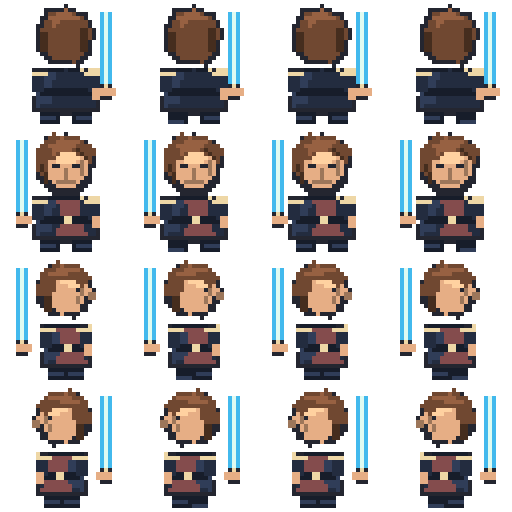
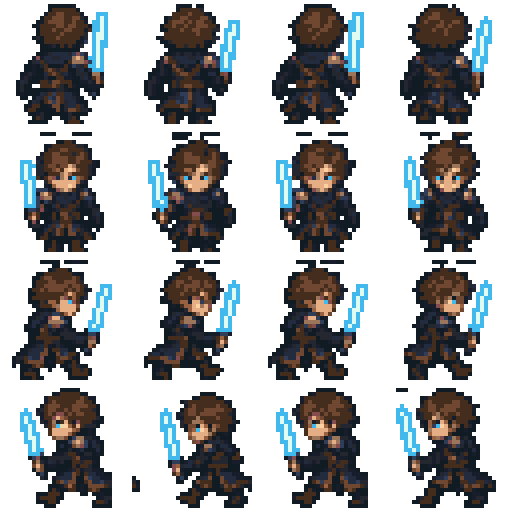
fix: rebuild Anakin and Obi-Wan field sprites

diff --git a/desktop/tools/draw_jedi_v2.py b/desktop/tools/draw_jedi_v2.py
@@ -12,6 +12,7 @@ from draw_jedi import ROSTER, slug, shade, encode
 from jedi_approved import plo, yoda, Sprite
 
 ROOT=Path(__file__).resolve().parents[1]/'assets'/'jedi'
+PLAYER_SOURCE=ROOT/'anakin-obiwan-overworld-source.png'
 
 
 def colors(c):
@@ -345,6 +346,72 @@ def overworld(c,direction,phase):
     return im
 
 
+def production_player_overworld(c,direction,phase):
+    """Import the approved high-detail player sheet into the native 32 px cell.
+
+    The source is an enlarged review sheet with Anakin in columns 0-3 and
+    Obi-Wan in columns 4-7.  Every cell is normalized independently so the
+    feet stay planted while hair, robes and the saber keep their silhouette.
+    Colors are mapped to the character's shared 16-color ROM palette, which
+    keeps battle portraits and field frames compatible with one texture.
+    """
+    if c[0] not in ('Anakin Skywalker','Obi-Wan Kenobi'):
+        return overworld(c,direction,phase)
+    source=Image.open(PLAYER_SOURCE).convert('RGBA')
+    cell_w,cell_h=source.width//8,source.height//4
+    character_col=0 if c[0]=='Anakin Skywalker' else 4
+    # The game's four-step walk bank expects the two standing beats to share
+    # one frame (0, left, 0, right), matching the original animation cadence.
+    source_phase=0 if phase==2 else phase
+    left=(character_col+source_phase)*cell_w
+    top=direction*cell_h
+    cell=source.crop((left,top,left+cell_w,top+cell_h))
+    alpha=cell.getchannel('A')
+    bbox=alpha.point(lambda value:255 if value>=48 else 0).getbbox()
+    if not bbox:
+        raise ValueError(f'Empty player frame: {c[0]} direction={direction} phase={phase}')
+    cell=cell.crop(bbox)
+    scale=min(30/cell.width,30/cell.height)
+    size=(max(1,round(cell.width*scale)),max(1,round(cell.height*scale)))
+    cell=cell.resize(size,Image.Resampling.LANCZOS)
+
+    pal=palette_of(battle(c))
+    out=Image.new('P',(32,32));set_colors(out,pal)
+    rgba=cell.load();pixels=[]
+    for y in range(cell.height):
+        for x in range(cell.width):
+            red,green,blue,opacity=rgba[x,y]
+            if opacity<48:
+                pixels.append(0)
+                continue
+            # Blue and white saber pixels use the fixed blade indices expected
+            # by the ROM patcher. Costume pixels use perceptual nearest color.
+            if blue>red*1.35 and blue>green*1.05 and blue>115:
+                pixels.append(14 if red+green+blue>610 else 13)
+                continue
+            pixels.append(min(range(1,16),key=lambda index:
+                3*(red-pal[index][0])**2+4*(green-pal[index][1])**2+2*(blue-pal[index][2])**2))
+    mapped=Image.new('P',cell.size);set_colors(mapped,pal);mapped.putdata(pixels)
+    out.paste(mapped,((32-cell.width)//2,31-cell.height))
+    # Image-generation review sheets can contain a few isolated sparkle pixels.
+    # Strip only tiny disconnected islands; the body and saber remain intact.
+    values=list(out.getdata());seen=set()
+    for origin,value in enumerate(values):
+        if value==0 or origin in seen:continue
+        component=[];pending=[origin];seen.add(origin)
+        while pending:
+            current=pending.pop();component.append(current)
+            x,y=current%32,current//32
+            for nx,ny in ((x-1,y),(x+1,y),(x,y-1),(x,y+1)):
+                neighbor=ny*32+nx
+                if 0<=nx<32 and 0<=ny<32 and neighbor not in seen and values[neighbor]!=0:
+                    seen.add(neighbor);pending.append(neighbor)
+        if len(component)<3:
+            for index in component:values[index]=0
+    out.putdata(values)
+    return out
+
+
 def font(size):
     for path in ('/System/Library/Fonts/Supplemental/Arial.ttf','/usr/share/fonts/truetype/dejavu/DejaVuSans.ttf'):
         if Path(path).exists():return ImageFont.truetype(path,size)
@@ -357,8 +424,8 @@ def main():
         for c in ROSTER:
             if c[0] not in ('Anakin Skywalker','Obi-Wan Kenobi'):continue
             name=slug(c[0]);path=ROOT/f'{name}.json';data=json.loads(path.read_text())
-            frames=[overworld(c,r,k) for r in range(4) for k in range(4)]
-            data['artRevision']=3;data['frames']=[encode(frame) for frame in frames]
+            frames=[production_player_overworld(c,r,k) for r in range(4) for k in range(4)]
+            data['artRevision']=4;data['frames']=[encode(frame) for frame in frames]
             path.write_text(json.dumps(data,separators=(',',':'))+'\n')
             sheet=Image.new('RGBA',(128,128))
             for i,frame in enumerate(frames):sheet.paste(frame.convert('RGBA'),((i%4)*32,(i//4)*32))
@@ -369,13 +436,14 @@ def main():
     d.text((25,20),'SOUL LINK · CLONE WARS · PIXELSTIL 02',font=font(25),fill='#ecd7ab')
     for index,c in enumerate(ROSTER):
         front=[battle(c,False,p) for p in range(2)];back=[battle(c,True,p) for p in range(2)]
-        frames=[overworld(c,r,k) for r in range(4) for k in range(4)]
+        frames=[production_player_overworld(c,r,k) if c[0] in ('Anakin Skywalker','Obi-Wan Kenobi') else overworld(c,r,k)
+                for r in range(4) for k in range(4)]
         pal=palette_of(front[0]);name=slug(c[0])
         # All images share one palette. Transparent border protects picture cipher.
         for im in front+back+frames:
             assert im.getpixel((im.width-1,im.height-1))==0
             assert len(im.getcolors())<=16
-        data={'format':2,'artRevision':3 if c[0] in ('Anakin Skywalker','Obi-Wan Kenobi') else 2,'name':c[0],'size':32,
+        data={'format':2,'artRevision':4 if c[0] in ('Anakin Skywalker','Obi-Wan Kenobi') else 2,'name':c[0],'size':32,
               'bladeIndices':[14,15] if c[5]=='yoda' else [13,14],
               'palette':[[round(v*31/255) for v in rgb] for rgb in pal],
               'frames':[encode(f) for f in frames],'front':[encode(f) for f in front],'back':[encode(f) for f in back]}

diff --git a/desktop/run.py b/desktop/run.py
@@ -21,7 +21,7 @@ def self_test():
     classpath()
     emulator=install_root()/'Emulator'/('melonDS.app' if platform.system()=='Darwin' else 'melonDS.exe')
     executable=find_executable(emulator)
-    assert (install_root()/'Emulator'/'focus-version.txt').read_text().strip()=='focus-0.15.0'
+    assert (install_root()/'Emulator'/'focus-version.txt').read_text().strip()=='focus-0.15.1'
     native=subprocess.run([str(executable),'--help'],capture_output=True,text=True,timeout=20)
     if native.returncode:
         raise RuntimeError(f'Emulator self-test failed ({native.returncode}): {native.stdout}\n{native.stderr}')

diff --git a/desktop/focus/build_focus.py b/desktop/focus/build_focus.py
@@ -15,7 +15,7 @@ import urllib.request
 import zipfile
 from .apply_focus import apply
 
-VERSION='focus-0.15.0'
+VERSION='focus-0.15.1'
 
 
 def run(args, **kwargs):

diff --git a/desktop/soullink/__init__.py b/desktop/soullink/__init__.py
@@ -1,3 +1,3 @@
 """SoulLink desktop companion."""
 
-__version__ = "0.15.0"
+__version__ = "0.15.1"

diff --git a/README.md b/README.md
@@ -2,9 +2,10 @@
 
 Desktop-Launcher für deutsche Pokémon SoulSilver-ROMs mit lokalem Randomizer, überprüfbaren Start-Spielständen und gemeinsamem Railway-Tracker.
 
-- **[Aktuelle stabile Version: 0.15.0](https://github.com/JohnLegendstyle/SoulLink/releases/tag/v0.15.0)**
-- [Windows 64 Bit herunterladen](https://github.com/JohnLegendstyle/SoulLink/releases/download/v0.15.0/SoulLink-0.15.0-Windows-x64.zip)
+- **[Aktuelle stabile Version: 0.15.1](https://github.com/JohnLegendstyle/SoulLink/releases/tag/v0.15.1)**
+- [Windows 64 Bit herunterladen](https://github.com/JohnLegendstyle/SoulLink/releases/download/v0.15.1/SoulLink-0.15.1-Windows-x64.zip)
 - [Versionsübersicht und Änderungsverlauf](CHANGELOG.md)
+- [Update 0.15.1: neue Anakin-/Obi-Wan-Lauffiguren](releases/v0.15.1.md) – gleichmäßige Körperproportionen, erkennbare Clone-Wars-Kleidung, Haare/Bart und Lichtschwerter in allen Laufrichtungen.
 - [Update 0.15.0: Windows-Kampfhilfe, Starterwahl und Direkt-Update](releases/v0.15.0.md) – Live-Schwächen und Attackenwirkung im Emulator, drei Starter im Launcher, neue kleine Anakin-/Obi-Wan-Figuren und Update im bisherigen App-Ordner.
 - [Update 0.14.4: Live-Team-Prüfung repariert](releases/v0.14.4.md) – alte/neue Trainernamen und vorübergehend unvollständige Boxplätze blockieren nicht mehr das gesamte Live-Team.
 - [Update 0.14.0: Live-Karte und Typenhilfe](releases/v0.14.0.md) – Anakin/Obi-Wan live auf der Karte, Typen/Schwächen/Stärken am Team und drei lokale Website-Ansichten.
@@ -16,11 +17,11 @@ Desktop-Launcher für deutsche Pokémon SoulSilver-ROMs mit lokalem Randomizer, 
 - [Spielstart und Bedienung](SPIELSTART.md)
 - [Gemeinsamer Tracker](https://soullink-web-production.up.railway.app)
 
-Der Nutzer liefert seine eigene ROM. Dieses Repository und die Releases enthalten keine Nintendo-ROMs oder BIOS-Dumps. **Beim Update die bestehende Runde öffnen; keine Startspielstände über euren Fortschritt kopieren.** Der Downloadkanal `spielabend` wird fortlaufend ersetzt; nummerierte Releases sind die verlässliche Versionsablage. Version 0.15.0 wird zunächst nur für Windows x64 ausgeliefert; die letzte macOS-Version bleibt 0.14.4.
+Der Nutzer liefert seine eigene ROM. Dieses Repository und die Releases enthalten keine Nintendo-ROMs oder BIOS-Dumps. **Beim Update die bestehende Runde öffnen; keine Startspielstände über euren Fortschritt kopieren.** Der Downloadkanal `spielabend` wird fortlaufend ersetzt; nummerierte Releases sind die verlässliche Versionsablage. Version 0.15.1 wird zunächst nur für Windows x64 ausgeliefert; die letzte macOS-Version bleibt 0.14.4.
 
 ## Desktop
 
-`desktop/` enthält den dunklen Launcher für Windows/macOS, den Randomizer-Adapter und den HGSS-Save-Reader. Drei eindeutige Starter, mindestens ein legendäres/mysteriöses Pokémon; optional wilde Begegnungen und Trainerteams. Getrennte männliche Trainer Anakin (John) und Obi-Wan (Eddie) starten direkt vor der Auswahl. Jede Runde hat ein neues Verzeichnis. Die letzte Runde kann wieder geöffnet werden. melonDS bleibt der Spielkern und öffnet ein separates Fenster. Version 0.8 enthält ein lokal handgezeichnetes Clone-Wars-Grafikpaket, ohne Bildgenerator/API; Umfang und Grenzen siehe `desktop/assets/jedi/README.md`.
+`desktop/` enthält den dunklen Launcher für Windows/macOS, den Randomizer-Adapter und den HGSS-Save-Reader. Drei eindeutige Starter, mindestens ein legendäres/mysteriöses Pokémon; optional wilde Begegnungen und Trainerteams. Getrennte männliche Trainer Anakin (John) und Obi-Wan (Eddie) starten direkt vor der Auswahl. Jede Runde hat ein neues Verzeichnis. Die letzte Runde kann wieder geöffnet werden. melonDS bleibt der Spielkern und öffnet ein separates Fenster. Das Clone-Wars-Grafikpaket liegt vollständig lokal im Release; es benötigt beim Spielen weder einen Bilddienst noch einen API-Schlüssel. Umfang und Grenzen siehe `desktop/assets/jedi/README.md`.
 
 Python 3.12 mit Tk, Java 21 und ein JDK mit javac/jlink werden zum Bauen benötigt:
 

diff --git a/SPIELSTART.md b/SPIELSTART.md
@@ -60,7 +60,7 @@ Jede Erstellung erzeugt zwei getrennte Spielerordner. Ihr könnt unabhängig auf
 
 ## Anakin und Obi-Wan (ab 0.8.0)
 
-Neue Runden enthalten Anakin für John und Obi-Wan für Eddie, mit blauem Lichtschwert. Die Namen im Spiel und Overlay sind **Anakin** und **Obi-Wan**. Alte Ordner-/Dateinamen und interne Spielerkennungen Optimus/Bee bleiben aus Kompatibilitätsgründen erhalten. 45 handgezeichnete Jedi-Designs ersetzen unterstützte Lauf-/Rennfiguren und alle 129 Trainer-Kampfklassen sowie die Kampfrückansichten. Die Figuren sind Pixelgrafiken, keine importierten 3D-Modelle. Trainerpass und Spezialaktionen wie Fahrrad, Surfen und Angeln verwenden vorerst Originalgrafiken. Gegnernamen und Dialoge bleiben unverändert; einige Zivilisten verwenden dieselben Grafikvorlagen wie Trainer.
+Neue Runden enthalten Anakin für John und Obi-Wan für Eddie, mit blauem Lichtschwert. Die Namen im Spiel und Overlay sind **Anakin** und **Obi-Wan**. Alte Ordner-/Dateinamen und interne Spielerkennungen Optimus/Bee bleiben aus Kompatibilitätsgründen erhalten. 45 lokale Jedi-Pixeldesigns ersetzen unterstützte Lauf-/Rennfiguren und alle 129 Trainer-Kampfklassen sowie die Kampfrückansichten. Die Figuren sind Pixelgrafiken, keine importierten 3D-Modelle. Trainerpass und Spezialaktionen wie Fahrrad, Surfen und Angeln verwenden vorerst Originalgrafiken. Gegnernamen und Dialoge bleiben unverändert; einige Zivilisten verwenden dieselben Grafikvorlagen wie Trainer.
 
 Für eine bestehende Runde: Spiel speichern, Cloud-Abgleich abwarten, **alle melonDS-Fenster schließen**, Runde öffnen und **Clone Wars: Anakin & Obi-Wan anwenden** bzw. **Figuren aktualisieren** wählen. Eure noch vor der Starter-Auswahl stehenden Spielstände werden umbenannt, nicht zurückgesetzt. Alte Runden mit bereits erhaltenen Pokémon werden bei der Namensmigration sicherheitshalber nicht geändert. Vorherige ROMs liegen als `.pre-jedi.nds`, vorherige Spielstände als `.pre-jedi-name.sav` daneben. Danach **WEITER** wählen, keine neue Runde erstellen. Der vollständige Rundenordner muss für den Gerätewechsel auch die `.graphics-identity.json`-Dateien enthalten, damit die bestehende Cloud-Zuordnung erhalten bleibt. Auf beiden Geräten mindestens 0.8 verwenden.
 

diff --git a/desktop/assets/jedi/README.md b/desktop/assets/jedi/README.md
@@ -1,12 +1,13 @@
 # Clone Wars pixel-art pack
 
-Hand-authored unofficial fan art. Characters belong to Lucasfilm. No Nintendo
-graphics or downloaded Star Wars artwork are distributed in this folder.
-The requested built-in image generation failed; the user explicitly chose manual
-creation with no image-generation API. All shipped pixels are drawn by the
-versioned coordinate sources `desktop/tools/draw_jedi_v2.py` and
-`desktop/tools/jedi_approved.py` using Pillow as a local
-rasterizer, without a model, API key, tracing, or external image inputs.
+Unofficial fan art. Characters belong to Lucasfilm. No Nintendo graphics or
+downloaded Star Wars artwork are distributed in this folder. Most designs are
+drawn by the versioned coordinate sources `desktop/tools/draw_jedi_v2.py` and
+`desktop/tools/jedi_approved.py` using Pillow as a local rasterizer. Revision 4
+uses the locally stored generated concept
+`anakin-obiwan-overworld-source.png` for the two player field sprites and maps
+it deterministically into the shared native 16-color ROM palettes. Playing and
+building the packaged app requires no model, network service or API key.
 
 45 Jedi/Padawan designs are in `roster.json`, including Anakin and Obi-Wan.
 This is the implemented roster, not a claim of covering every unnamed or cameo
@@ -43,6 +44,10 @@ Revision 2 adopts the approved Plo Koon/Yoda pixel language for all 45 designs.
 Their first front frames remain pixel-identical to the approved native drawings.
 Every character includes explicit palette indices for its two blade colors;
 palette index meanings are not assumed to be identical between alien designs.
+
+Revision 4 replaces the small Anakin/Obi-Wan field sprites with the approved
+slimmer Clone-Wars proportions, directional hair/beard/costume silhouettes and
+lightsabers held close to the body.
 
 Rebuild: `python desktop/tools/draw_jedi_v2.py` (development Pillow installation).
 `draw_jedi.py` retains the roster and legacy source for comparison only.

diff --git a/releases/v0.15.1.md b/releases/v0.15.1.md
@@ -1,0 +1,15 @@
+# Soul Link 0.15.1 · Windows
+
+## Neu
+
+- Vollständig neue kleine Lauffiguren für Anakin und Obi-Wan.
+- Gleichmäßige, schlankere Körperproportionen statt der bisherigen runden Standardfiguren.
+- Anakins dunkle asymmetrische Kleidung und markante Haare sind in allen Richtungen sichtbar.
+- Obi-Wans helle Clone-Wars-Rüstung, rote Haare und Bart sind in allen Richtungen sichtbar.
+- Die blauen Lichtschwerter sitzen in der Hand und bewegen sich mit den Laufphasen.
+
+## Update ohne Verlust
+
+Im Reiter **Updates** Version 0.15.1 installieren. Die App ersetzt ihre Programmdateien am bisherigen Ort. Bestehende `.sav`-Spielstände, Rundenordner, Website-Verbindung sowie eigene Tasten- und Controllerbelegungen bleiben erhalten. Nach dem Update die bestehende Runde öffnen und die Jedi-Grafiken erneut auf die vorhandene eigene ROM anwenden, damit die neuen Lauffiguren in der laufenden Runde erscheinen.
+
+Diese Version wird als Windows-x64-Hotfix veröffentlicht. Die letzte macOS-Version bleibt 0.14.4.

diff --git a/CHANGELOG.md b/CHANGELOG.md
@@ -1,6 +1,12 @@
 # Versionen und Änderungen
 
-## [0.15.0 – aktuelle stabile Version](https://github.com/JohnLegendstyle/SoulLink/releases/tag/v0.15.0)
+## [0.15.1 – aktuelle stabile Version](https://github.com/JohnLegendstyle/SoulLink/releases/tag/v0.15.1)
+
+30.09.2026 · Windows x64.
+
+Die kleinen Spielfiguren von Anakin und Obi-Wan wurden vollständig neu aufgebaut. Beide verwenden nun gleichmäßige, schlankere Körperproportionen, klar erkennbare Clone-Wars-Kleidung, Anakins markante Haare beziehungsweise Obi-Wans Haare und Bart sowie korrekt in der Hand sitzende blaue Lichtschwerter. Vorder-, Rück- und Seitenansichten besitzen passende Laufphasen. Spielstände, Runden, Website-Daten und eigene Tasten-/Controllerprofile bleiben unverändert. [Update-Hinweise](releases/v0.15.1.md).
+
+## [0.15.0](https://github.com/JohnLegendstyle/SoulLink/releases/tag/v0.15.0)
 
 30.09.2026 · zunächst Windows x64.
 
